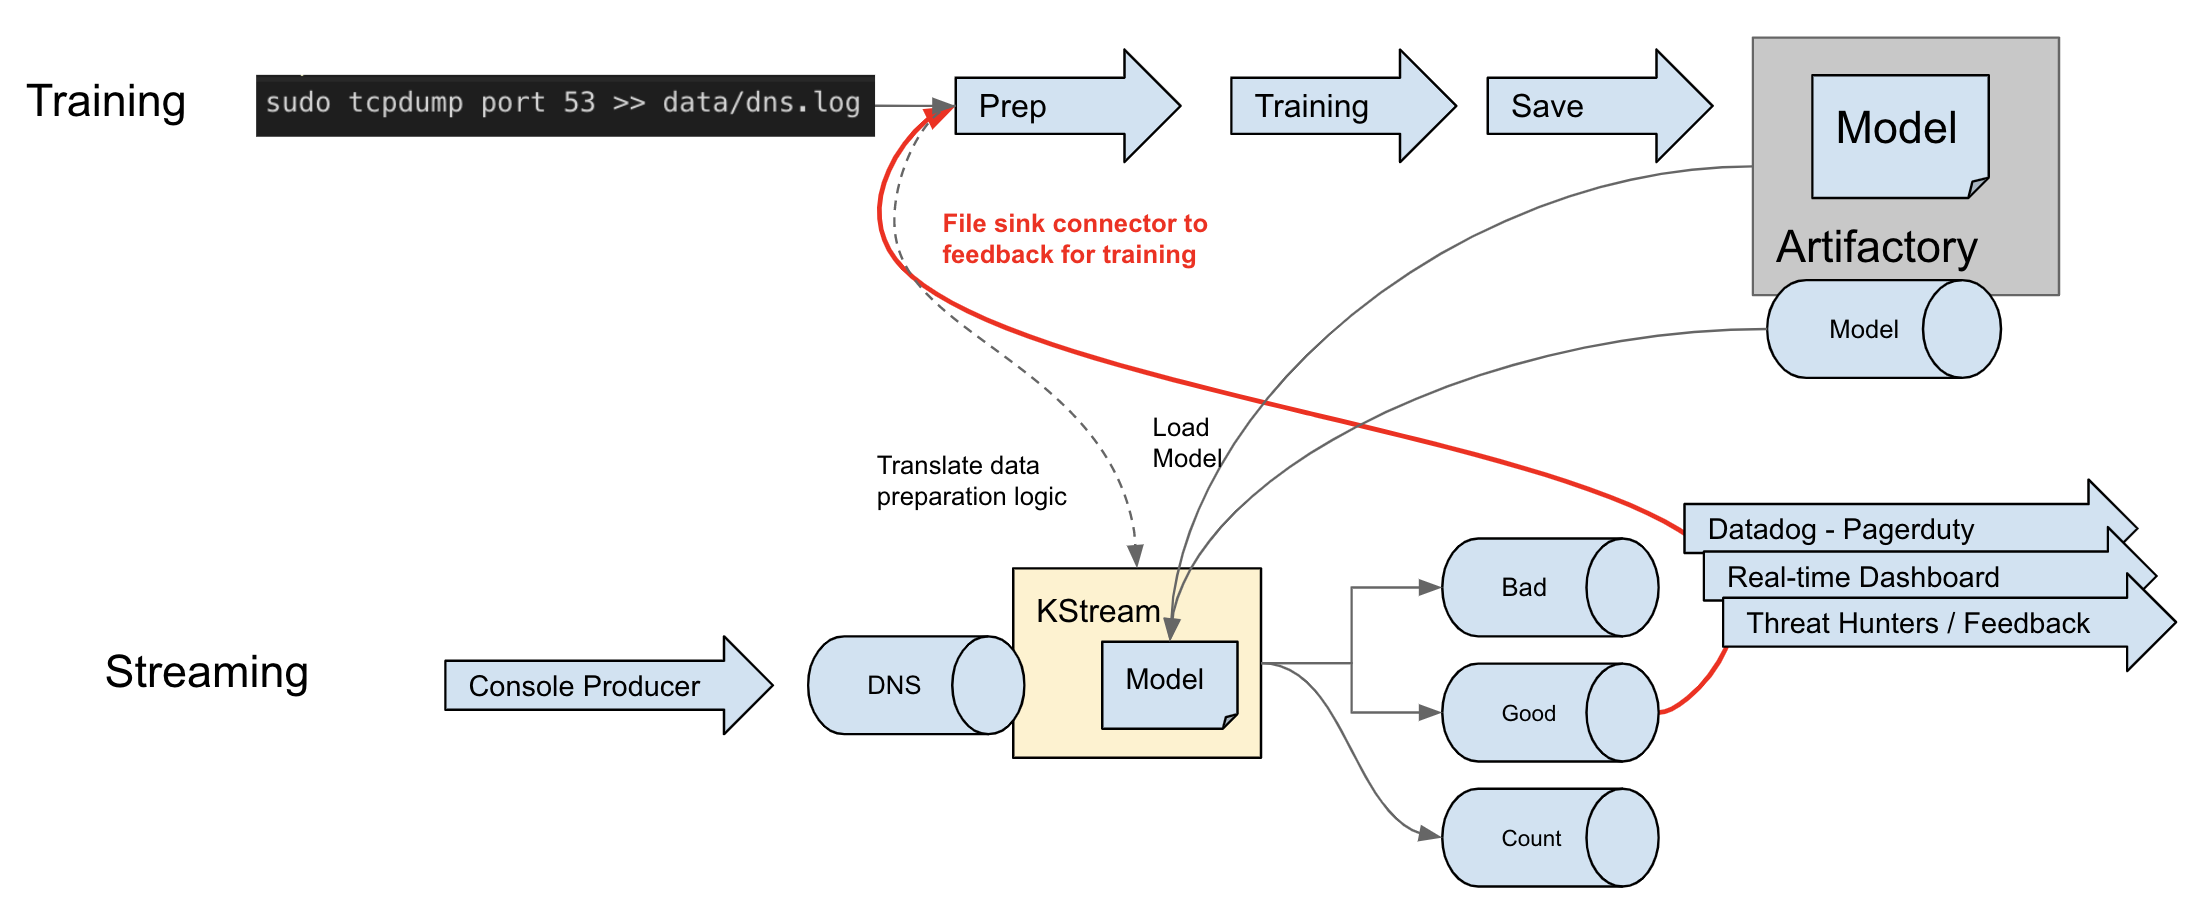
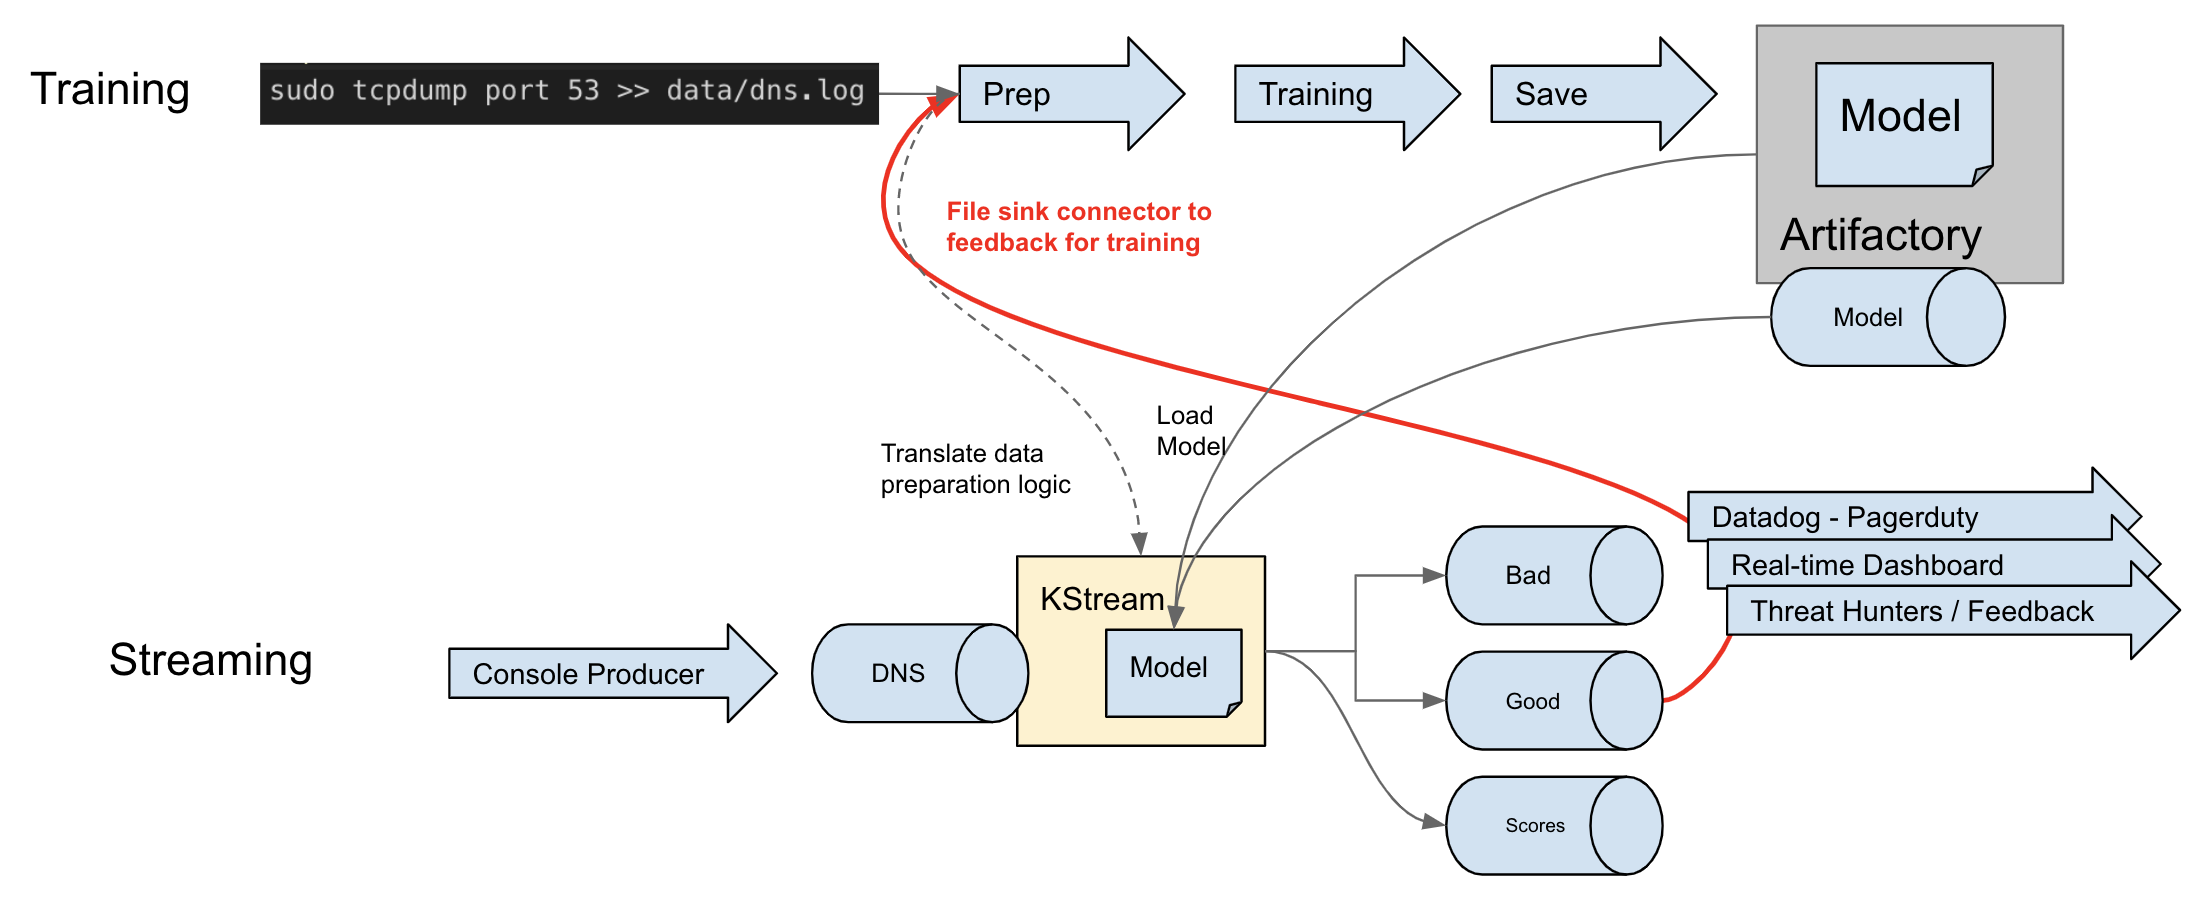
making ksql do the aggregation instead of kstreams

diff --git a/README.md b/README.md
@@ -28,7 +28,7 @@ $ make cluster
 ```
 
 Open 4 terminals
-1. Produer
+1. Producer
 	```
 	$ make producer
 	```
@@ -36,19 +36,46 @@ Open 4 terminals
 	```
 	$ make suspicious
 	```
-1. Consumer of good & bad counts
+1. Consumer of good events
 	```
-	$ make agg
+	$ make good
 	```
 
-1. For KSQL. The KSQL will watch for the suspicious topic and print out the bad messages.
+1. Open a KSQL shell to execute commans in the next section
 	```
 	$ make ksql
-	> create stream bad (data VARCHAR) WITH (KAFKA_TOPIC='suspicious', VALUE_FORMAT='DELIMITED');
-	> select * from bad;
 	```
  
-Model training is ongoing. When completed, the model is placed in a topic. The KStreams app waits for a model to appear and uses it to score incoming message.
+# KSQL
+```
+CREATE STREAM dns_scores (
+	value VARCHAR, 
+	key VARCHAR, 
+	score Double, 
+	modelName VARCHAR, 
+	org VARCHAR
+	)
+  WITH (
+	  KAFKA_TOPIC='dns-scores', 
+	  VALUE_FORMAT='JSON', KEY='key'
+	  );
+
+CREATE TABLE dns_scores_agg
+  WITH (VALUE_FORMAT = 'AVRO') AS
+  SELECT rowkey, count(score), min(score), max(score)
+  FROM dns_scores
+  GROUP BY rowkey;
+
+```
+
+# Feedback
+The events sent to the good topic are consumed by a file sink connector into data/feedback.log. This file along wiht data/dns.log are feed into the LDA trainer.
+
+# LDA Model Data
+The corpus that is fed to LDA is assumed "good" events so that when we encounter a bad event, it would not fall into any of the LDA topics.
+
+# Analyzing output
+If the scores start to converge closer to the threshold, consider increasing the number of LDA topics when training ( or __K__ ). In this ML workflow, changing __K__ is a manual adjustment requiring restarting the training service but could be made to be dynamic.
 
 # Machine Learning Workflow
 ![Workflow](doc/diagram.png)
